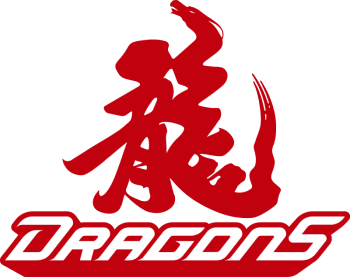
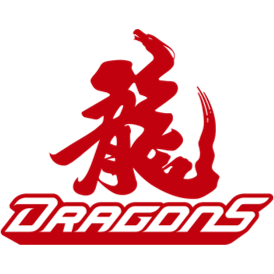
終於調整好LOGO位置

diff --git a/dash_file/assets/header.css b/dash_file/assets/header.css
@@ -1,9 +1,9 @@
 .team_logo:hover {
     filter: grayscale(60%);
     /* 將照片轉為灰度，可以根據需要調整效果 */
-}
+};
 
-.team_box{
-    display: flex;
-    width: 1200px;
+.team_box {
+    justify-content: center;
+    border-color: aqua;
 }

diff --git a/dash_file/dash_app2.py b/dash_file/dash_app2.py
@@ -52,30 +52,30 @@ dash2.layout = html.Div(
             
             html.Div([
                 html.A(className='team_logo',href='/dash/app1/', children=[
-                html.Img(src=[cpbl_datasource.team_logo('monkeys')], width=250, height=250),
-                 ],style={'text-decoration': 'none'}),html.Br(),
+                    html.Img(src=[cpbl_datasource.team_logo('monkeys'),],width='200px', height='200px'),
+                    ],style={'text-decoration': 'none'}),html.Br(),
                 
                 html.A(className='team_logo',href='/dash/app1/', children=[
-                html.Img(src=[cpbl_datasource.team_logo('brothers')], width=250, height=250),
+                    html.Img(src=[cpbl_datasource.team_logo('brothers')], width='200px', height='200px'),
                  ],style={'text-decoration': 'none'}),html.Br(),  
                 
                 html.A(className='team_logo',href='/dash/app1/', children=[
-                html.Img(src=[cpbl_datasource.team_logo('lions')], width=250, height=250),
+                    html.Img(src=[cpbl_datasource.team_logo('lions')], width='200px', height='200px'),
                  ],style={'text-decoration': 'none'}),html.Br(),  
                 
                 html.A(className='team_logo',href='/dash/app1/', children=[
-                html.Img(src=[cpbl_datasource.team_logo('fubon')], width=250, height=250),
+                    html.Img(src=[cpbl_datasource.team_logo('fubon')], width='200px', height='200px'),
                  ],style={'text-decoration': 'none'}),html.Br(),  
                 
                 html.A(className='team_logo',href='/dash/app1/', children=[
-                html.Img(src=[cpbl_datasource.team_logo('dragons')], width=250, height=250),
+                    html.Img(src=[cpbl_datasource.team_logo('dragons')], width='200px', height='200px'),
                  ],style={'text-decoration': 'none'}),html.Br(), 
                 
                 html.A(className='team_logo',href='/dash/app1/', children=[
-                html.Img(src=[cpbl_datasource.team_logo('hawks')], width=250, height=250),
-                 ],style={'text-decoration': 'none'}),html.Br(),   
+                    html.Img(src=[cpbl_datasource.team_logo('hawks')], width='200px', height='200px'),
+                 ],style={'text-decoration': 'none'}),  
                         
-            ],className='team_box'),
+            ],className='team_box', style={'display':'flex',  'justify-content':'space-between'}),
 
             html.Div([
                 html.Div([
